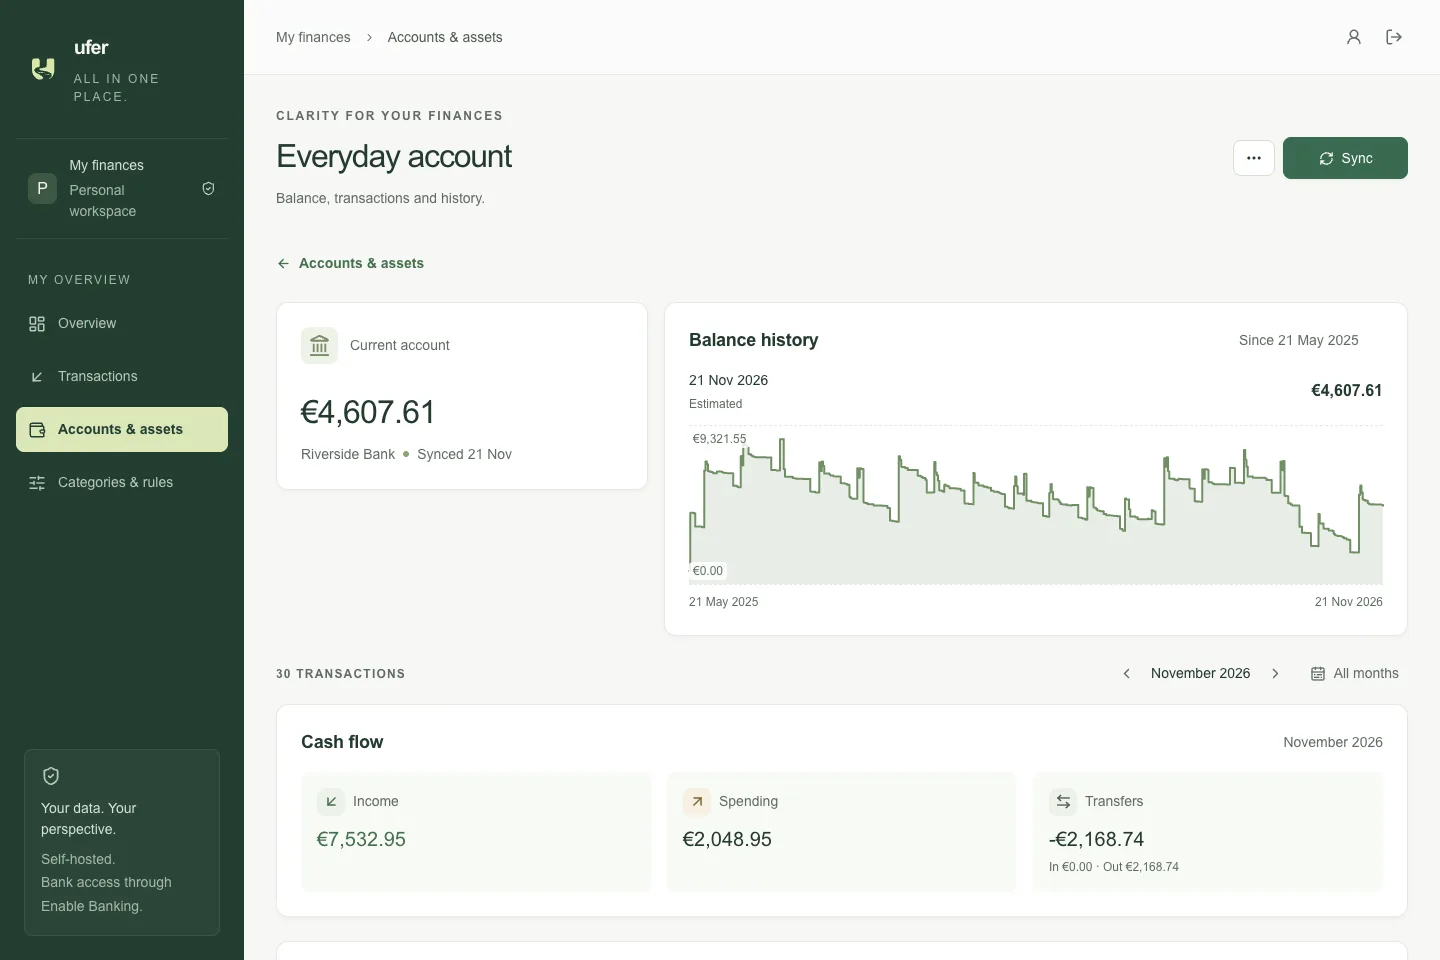
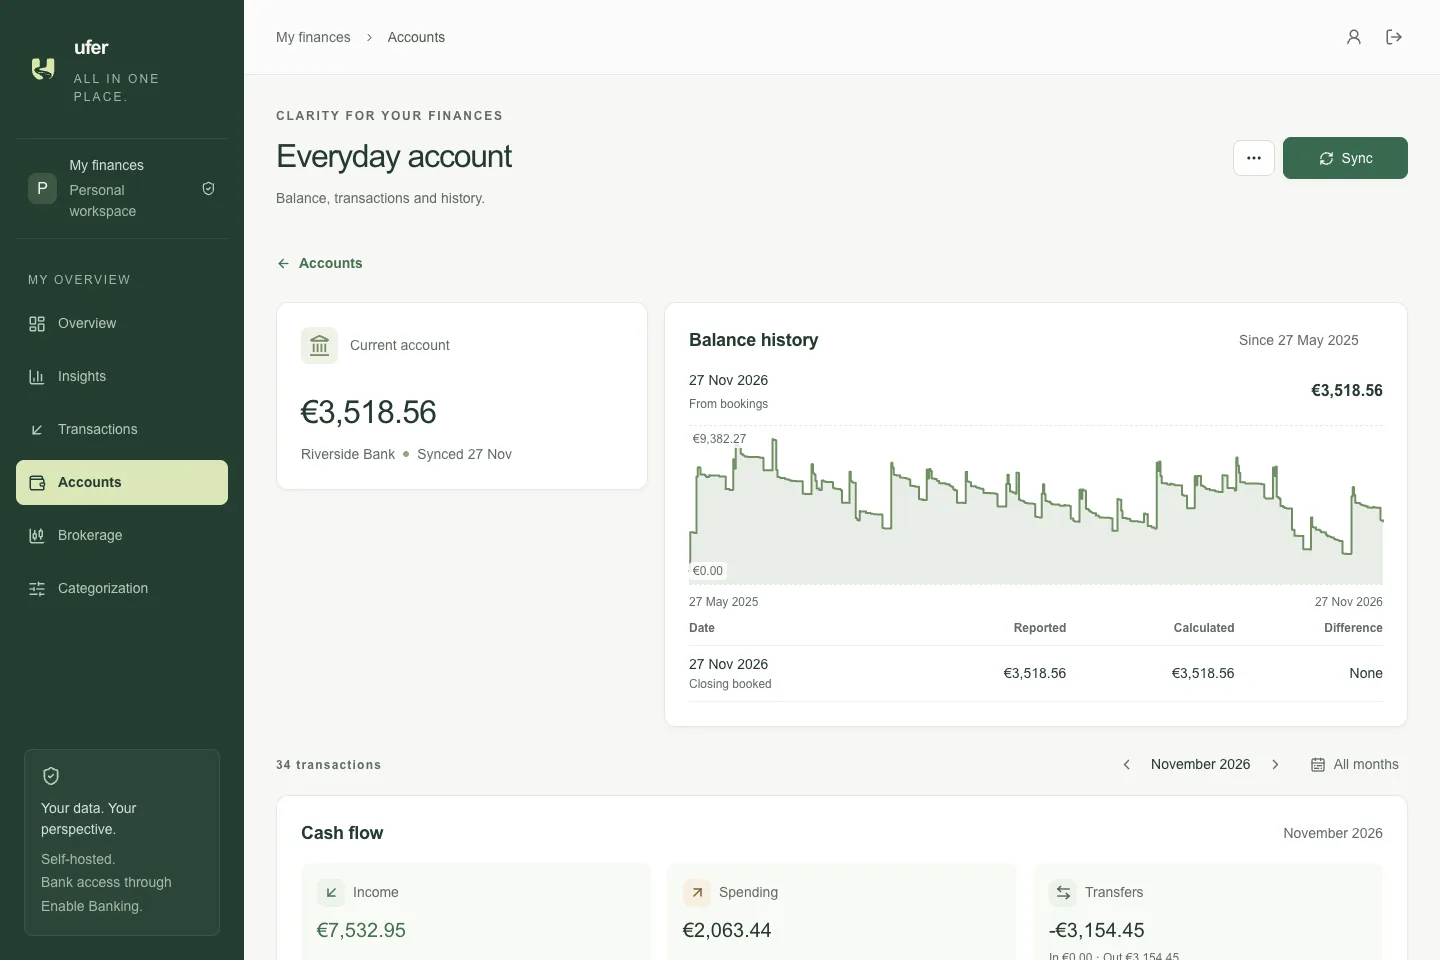
Simplify navigation labels to Accounts and Categorization
Renames the accounts and rules menu entries and page headings in English and German, aligns the phone label, copy references, screenshot checks and README images.

diff --git a/scripts/capture-screenshots.ts b/scripts/capture-screenshots.ts
@@ -70,7 +70,7 @@ const shots: Shot[] = [{
 }, {
   name: "accounts",
   path: "/accounts",
-  ready: page => heading(page, "Accounts & assets")
+  ready: page => heading(page, "Accounts")
 }, {
   name: "account-details",
   path: "/accounts/demo-checking",
@@ -78,7 +78,7 @@ const shots: Shot[] = [{
 }, {
   name: "rules",
   path: "/rules",
-  ready: page => heading(page, "Categories & rules")
+  ready: page => heading(page, "Categorization")
 }, {
   name: "connections",
   path: "/accounts",

diff --git a/tests/account-archiving.test.ts b/tests/account-archiving.test.ts
@@ -1284,7 +1284,7 @@ test("the accounts view lists archived accounts apart and does not count them", 
   })));
 
   assert.ok(screen.getByRole("heading", {
-    name: "Accounts & assets 1"
+    name: "Accounts 1"
   }));
   const archivedSection = screen.getByText("Archived accounts (1)").closest("details")!;
 

diff --git a/README.md b/README.md
@@ -22,8 +22,8 @@ Designed for everyday use on desktop and smartphone, Ufer aims to make managing 
 
 | | |
 |---|---|
-| **Transactions across all accounts** — search, filter, categories, transfers and splits.<br>![Transaction list](docs/screenshots/transactions-desktop.webp) | **Accounts and assets** — bank accounts, cash, investments, property and loans with their balances.<br>![Accounts and assets](docs/screenshots/accounts-desktop.webp) |
-| **Account details** — balance history and the account's monthly cash flow.<br>![Account details](docs/screenshots/account-details-desktop.webp) | **Categories and rules** — ordered rules categorize new transactions automatically.<br>![Categories and rules](docs/screenshots/rules-desktop.webp) |
+| **Transactions across all accounts** — search, filter, categories, transfers and splits.<br>![Transaction list](docs/screenshots/transactions-desktop.webp) | **Accounts** — bank accounts, cash, investments, property and loans with their balances.<br>![Accounts](docs/screenshots/accounts-desktop.webp) |
+| **Account details** — balance history and the account's monthly cash flow.<br>![Account details](docs/screenshots/account-details-desktop.webp) | **Categorization** — ordered rules categorize new transactions automatically.<br>![Categorization](docs/screenshots/rules-desktop.webp) |
 | **Bank connections** — authorization status and recent sync runs.<br>![Bank connections](docs/screenshots/connections-desktop.webp) | **Dark mode** — follows the system or a manual choice.<br>![Overview in dark mode](docs/screenshots/overview-desktop-dark.webp) |
 
 On a phone, the same views adapt to a single column with bottom navigation:
@@ -32,7 +32,7 @@ On a phone, the same views adapt to a single column with bottom navigation:
   <img src="docs/screenshots/overview-phone.webp" alt="Overview on a phone" width="24%">
   <img src="docs/screenshots/transactions-phone.webp" alt="Transactions on a phone" width="24%">
   <img src="docs/screenshots/accounts-phone.webp" alt="Accounts on a phone" width="24%">
-  <img src="docs/screenshots/rules-phone.webp" alt="Rules on a phone" width="24%">
+  <img src="docs/screenshots/rules-phone.webp" alt="Categorization on a phone" width="24%">
 </p>
 
 Regenerate the screenshots with `npm run screenshots`; see [setup](docs/setup.md#screenshots).
